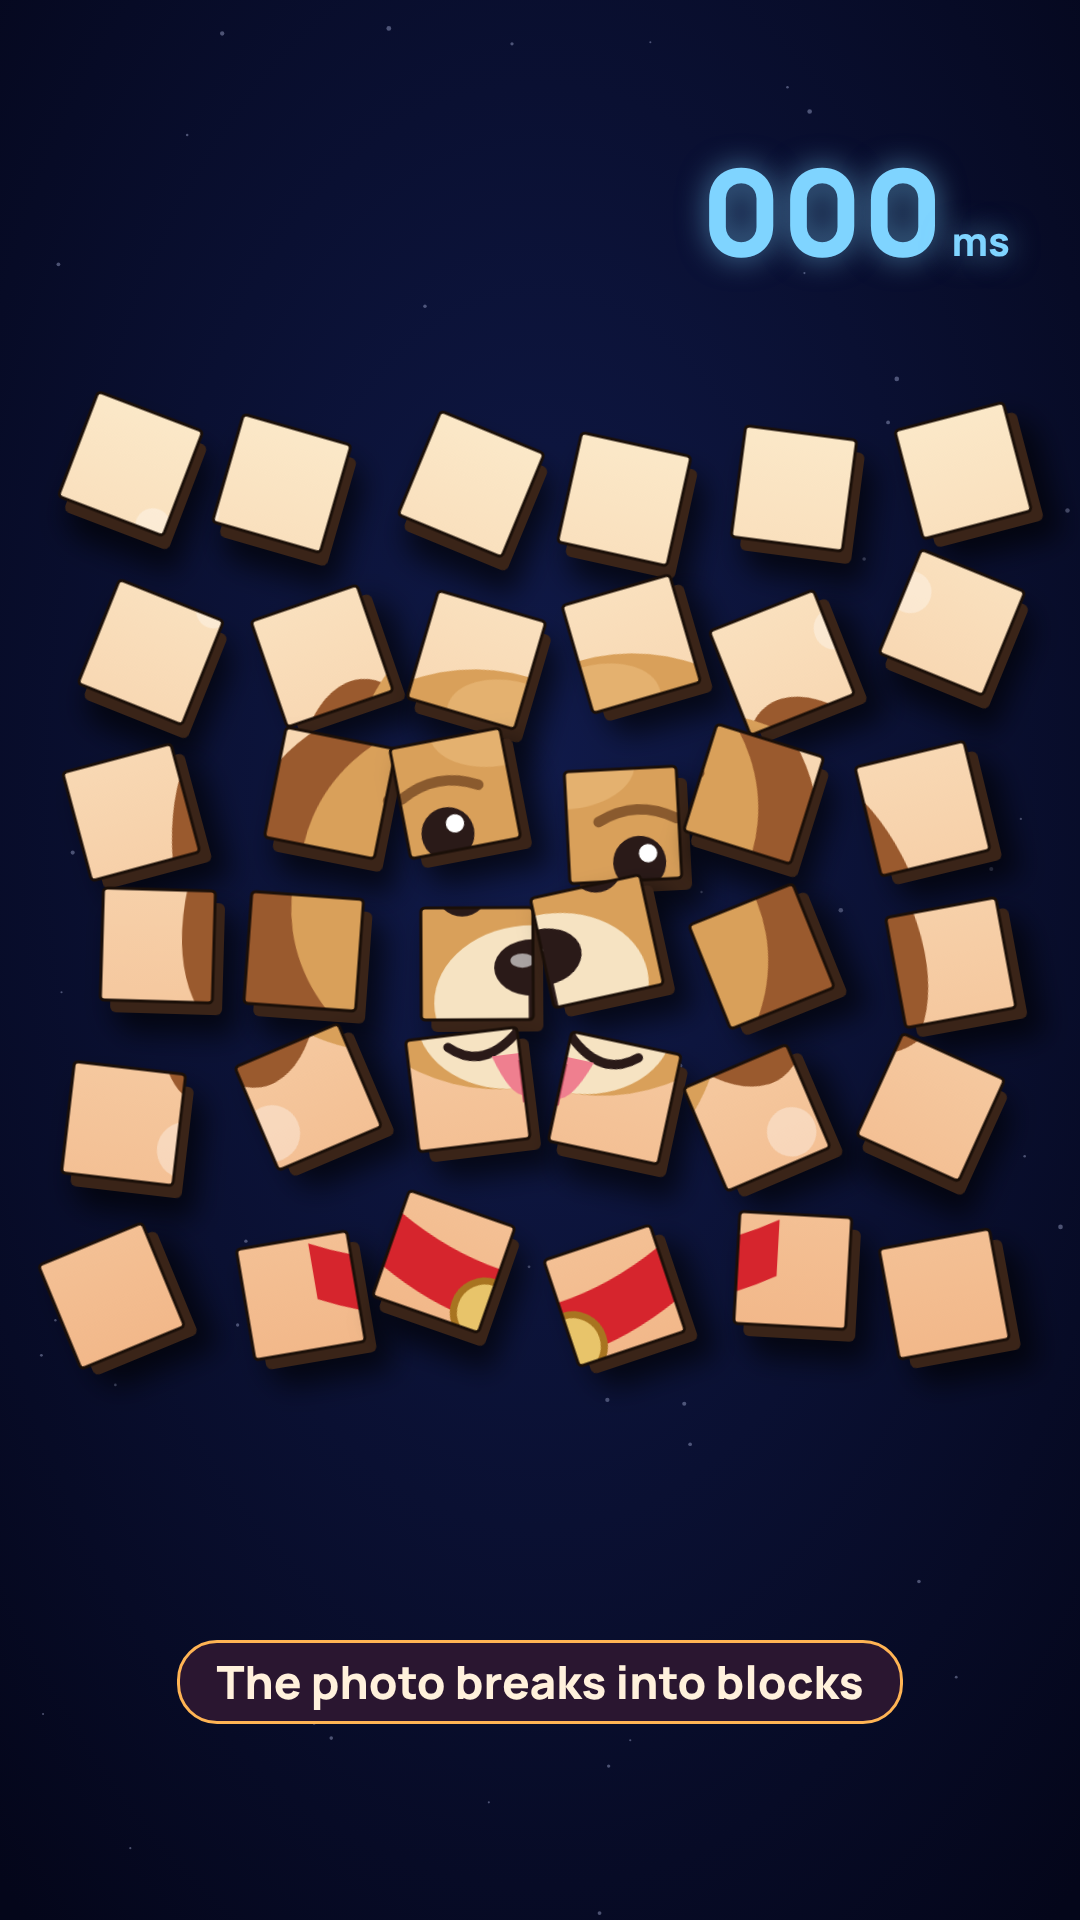
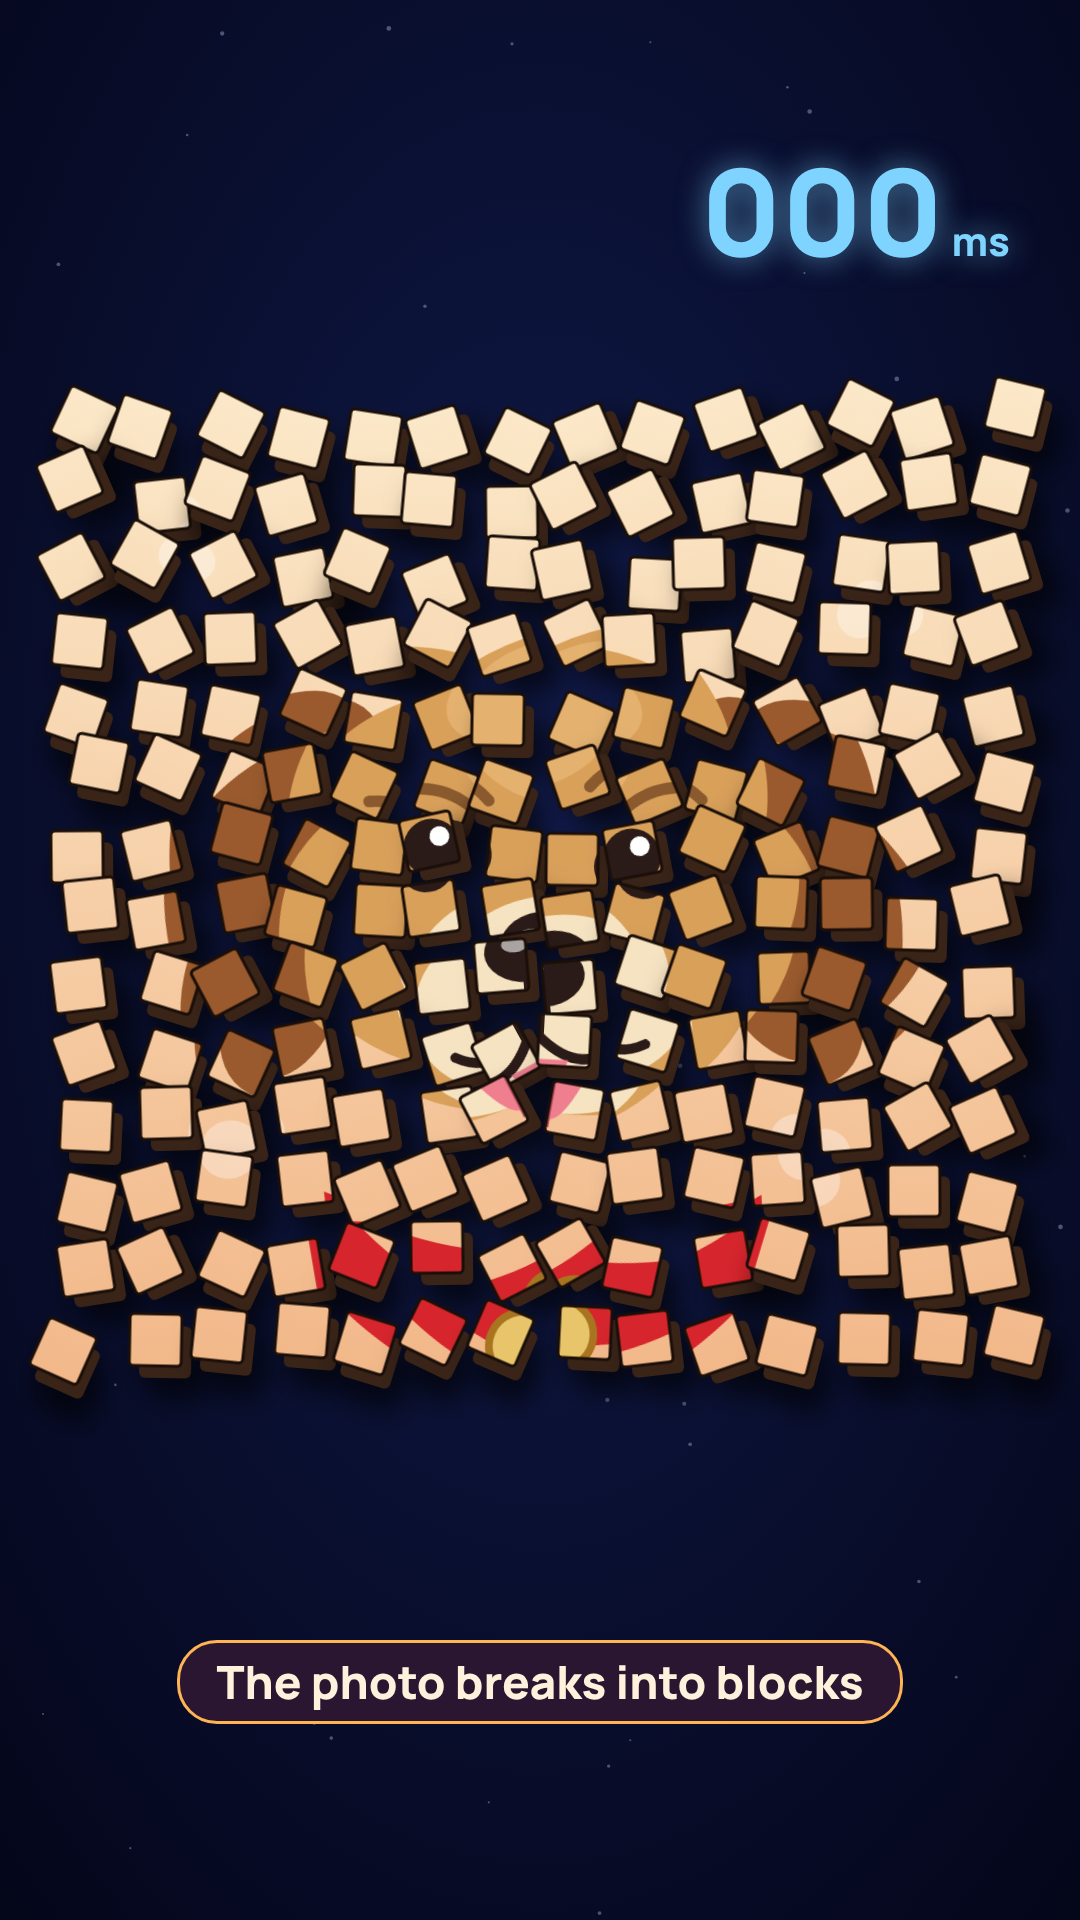
Encryption scene: photo breaks into 196 blocks (still)
Claude-Session: https://claude.ai/code/session_01GXcKc5WpkD8jhBf44cT6jS

diff --git a/internet/v3/src/v4/Encrypt.tsx b/internet/v3/src/v4/Encrypt.tsx
@@ -43,7 +43,7 @@ const Lock: React.FC<{ x: number; y: number; k: number }> = ({ x, y, k }) => (<g
   <rect x={-110} y={-50} width={220} height={190} rx={30} fill="#2a7fe0" stroke="#9fd0ff" strokeWidth={6} /><circle cx={0} cy={30} r={26} fill="#0a2a5a" /><rect x={-9} y={40} width={18} height={50} rx={9} fill="#0a2a5a" /></g>);
 const Scene: React.FC<{ beat: number }> = ({ beat }) => {
   const els: React.ReactNode[] = [];
-  if (beat === 1) { const n = 6, s = 118; for (let i = 0; i < n; i++) for (let j = 0; j < n; j++) { const k = i * n + j, dx = (j - 2.5), dy = (i - 2.5), d = Math.hypot(dx, dy) + 0.4; els.push(<Block key={k} x={540 + dx * (s + 14) * (1 + 0.07 * d) + (hash(k) - 0.5) * 36} y={880 + dy * (s + 14) * (1 + 0.07 * d) + (hash(k + 3) - 0.5) * 36} s={s - 6} rot={(hash(k + 7) - 0.5) * 50 * Math.min(1, d / 2)} i={i} j={j} n={n} />); } }
+  if (beat === 1) { const n = 14, s = 56; for (let i = 0; i < n; i++) for (let j = 0; j < n; j++) { const k = i * n + j, dx = (j - 6.5), dy = (i - 6.5), d = Math.hypot(dx, dy) + 0.4; els.push(<Block key={k} x={540 + dx * (s + 8) * (1 + 0.012 * d) + (hash(k) - 0.5) * 26} y={880 + dy * (s + 8) * (1 + 0.012 * d) + (hash(k + 3) - 0.5) * 26} s={s - 4} rot={(hash(k + 7) - 0.5) * 60 * Math.min(1, d / 3)} i={i} j={j} n={n} />); } }
   if (beat === 2) { for (let r = 0; r < 9; r++) { const sc = 0.8 + r * 0.085, cols = 8; for (let c = 0; c < cols; c++) els.push(<Bits key={r + '-' + c} x={540 + (c - 3.5) * 150 * sc} y={330 + r * 118 * sc * 1.05 + r * r * 4} s={128 * sc} seed={r * 11 + c} lit={hash(r * 3 + c) > 0.45 ? 1 : 0.3} />); } }
   const lens = beat === 5;
   return (<AbsoluteFill><Bg />
